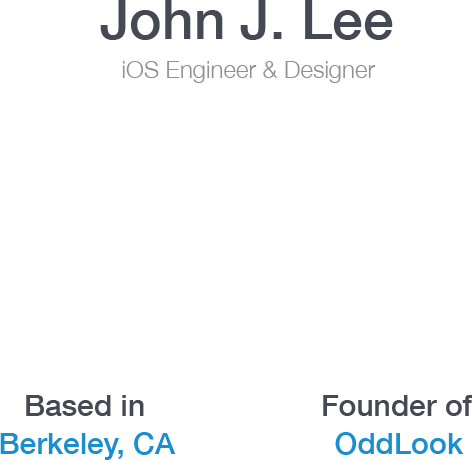
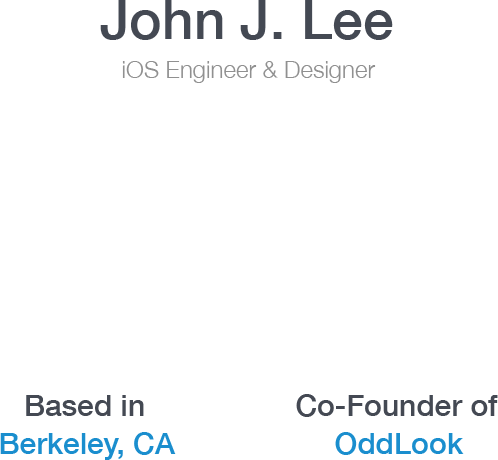
cofounder

diff --git a/imported/firstMock/layers.json.js b/imported/firstMock/layers.json.js
@@ -23,7 +23,7 @@ window.__imported__["firstMock/layers.json.js"] = [
 		"children": [
 			
 		],
-		"modification": "1606861185"
+		"modification": "672268427"
 	},
 	{
 		"id": 88,
@@ -48,7 +48,7 @@ window.__imported__["firstMock/layers.json.js"] = [
 		"children": [
 			
 		],
-		"modification": "555030501"
+		"modification": "1441868202"
 	},
 	{
 		"id": 61,
@@ -73,7 +73,7 @@ window.__imported__["firstMock/layers.json.js"] = [
 		"children": [
 			
 		],
-		"modification": "1546461047"
+		"modification": "672268433"
 	},
 	{
 		"id": 164,
@@ -98,7 +98,7 @@ window.__imported__["firstMock/layers.json.js"] = [
 		"children": [
 			
 		],
-		"modification": "1626826071"
+		"modification": "672268435"
 	},
 	{
 		"id": 84,
@@ -115,7 +115,7 @@ window.__imported__["firstMock/layers.json.js"] = [
 			"frame": {
 				"x": 75,
 				"y": 48,
-				"width": 472,
+				"width": 498,
 				"height": 460
 			}
 		},
@@ -123,7 +123,7 @@ window.__imported__["firstMock/layers.json.js"] = [
 		"children": [
 			
 		],
-		"modification": "1413792651"
+		"modification": "1412530538"
 	},
 	{
 		"id": 104,
@@ -148,7 +148,7 @@ window.__imported__["firstMock/layers.json.js"] = [
 		"children": [
 			
 		],
-		"modification": "1212753385"
+		"modification": "697197718"
 	},
 	{
 		"id": 106,
@@ -173,7 +173,7 @@ window.__imported__["firstMock/layers.json.js"] = [
 		"children": [
 			
 		],
-		"modification": "1916377559"
+		"modification": "1717463962"
 	},
 	{
 		"id": 108,
@@ -198,7 +198,7 @@ window.__imported__["firstMock/layers.json.js"] = [
 		"children": [
 			
 		],
-		"modification": "1215264612"
+		"modification": "763612558"
 	},
 	{
 		"id": 110,
@@ -223,7 +223,7 @@ window.__imported__["firstMock/layers.json.js"] = [
 		"children": [
 			
 		],
-		"modification": "73431212"
+		"modification": "1694270041"
 	},
 	{
 		"id": 118,
@@ -248,7 +248,7 @@ window.__imported__["firstMock/layers.json.js"] = [
 		"children": [
 			
 		],
-		"modification": "1528390166"
+		"modification": "325333883"
 	},
 	{
 		"id": 150,
@@ -273,7 +273,7 @@ window.__imported__["firstMock/layers.json.js"] = [
 		"children": [
 			
 		],
-		"modification": "1354315745"
+		"modification": "1114770466"
 	},
 	{
 		"id": 112,
@@ -298,7 +298,7 @@ window.__imported__["firstMock/layers.json.js"] = [
 		"children": [
 			
 		],
-		"modification": "1845413433"
+		"modification": "1434203341"
 	},
 	{
 		"id": 145,
@@ -323,7 +323,7 @@ window.__imported__["firstMock/layers.json.js"] = [
 		"children": [
 			
 		],
-		"modification": "1162390507"
+		"modification": "518577081"
 	},
 	{
 		"id": 114,
@@ -348,7 +348,7 @@ window.__imported__["firstMock/layers.json.js"] = [
 		"children": [
 			
 		],
-		"modification": "325788487"
+		"modification": "1654358229"
 	},
 	{
 		"id": 136,
@@ -373,7 +373,7 @@ window.__imported__["firstMock/layers.json.js"] = [
 		"children": [
 			
 		],
-		"modification": "1285280103"
+		"modification": "894615577"
 	},
 	{
 		"id": 116,
@@ -398,7 +398,7 @@ window.__imported__["firstMock/layers.json.js"] = [
 		"children": [
 			
 		],
-		"modification": "1103617781"
+		"modification": "1000951727"
 	},
 	{
 		"id": 135,
@@ -423,7 +423,7 @@ window.__imported__["firstMock/layers.json.js"] = [
 		"children": [
 			
 		],
-		"modification": "1760804114"
+		"modification": "609386042"
 	},
 	{
 		"id": 151,
@@ -469,7 +469,7 @@ window.__imported__["firstMock/layers.json.js"] = [
 				"children": [
 					
 				],
-				"modification": "1674578399"
+				"modification": "673221772"
 			},
 			{
 				"id": 162,
@@ -494,9 +494,9 @@ window.__imported__["firstMock/layers.json.js"] = [
 				"children": [
 					
 				],
-				"modification": "1818672556"
+				"modification": "548848487"
 			}
 		],
-		"modification": "1495334600"
+		"modification": "519313707"
 	}
 ]

diff --git a/home.html b/home.html
@@ -11,6 +11,8 @@
 
 		* {
 			margin:0;
+                        margin-left: auto;
+                        margin-right: auto;
 			padding:0;
 			border:none;
 			-webkit-user-select:none;
